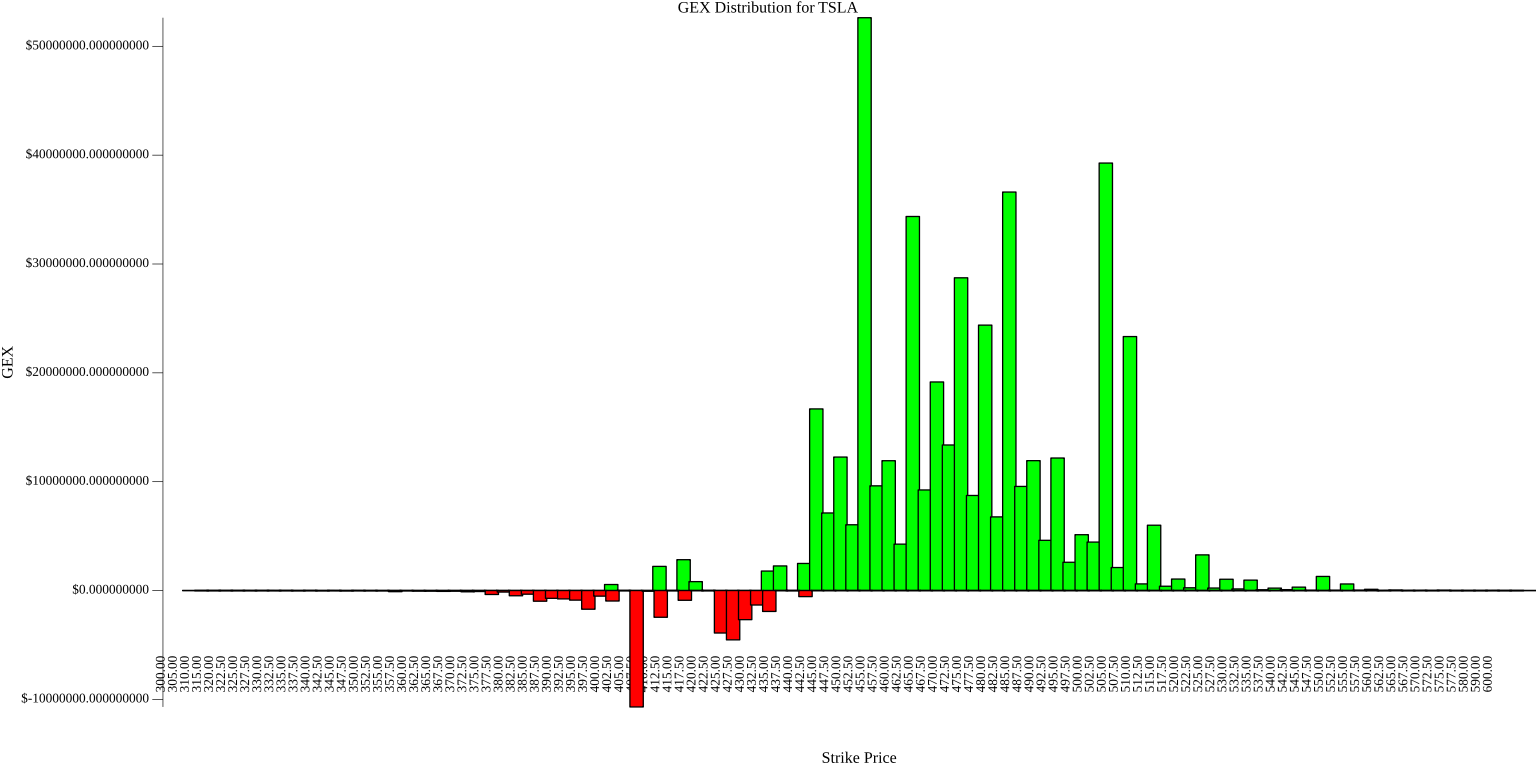
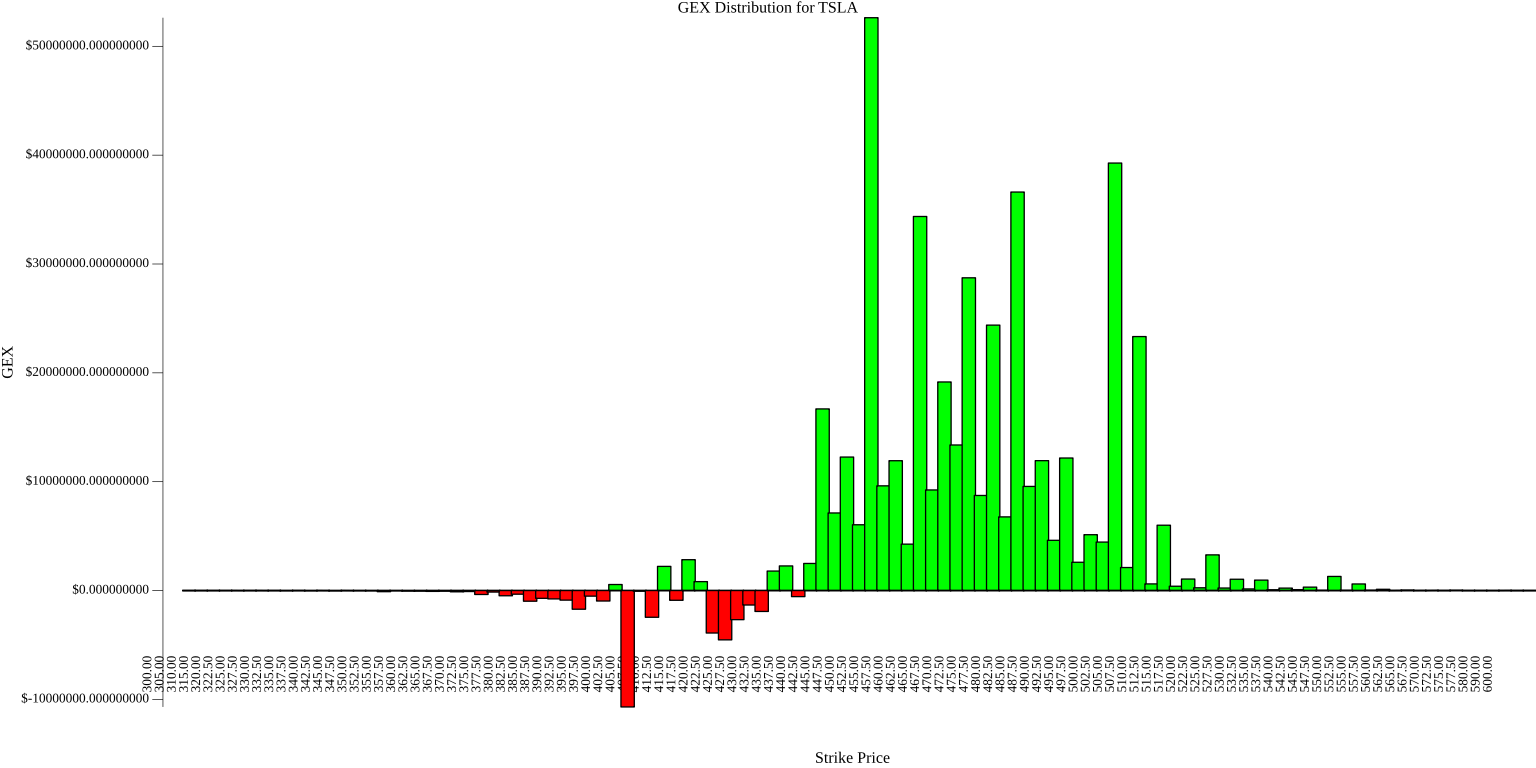
more changes in the way the graph is generated.

Changed region(s): [[0.0938, 0.0312, 0.9688, 0.9375], [0.5312, 0.9688, 0.5938, 1.0]]

diff --git a/templates/gex.html b/templates/gex.html
@@ -14,16 +14,20 @@
                 <div class="px-4 sm:px-6 lg:px-8">
                     <div class="sm:flex sm:items-center">
                         <div class="sm:flex-auto">
+                            {{ if not .ImagePath }}
                             <h1 class="text-4xl font-semibold leading-6 text-white">GEX Chart</h1>
+                            {{ end }}
                         </div>
                     </div>
                     <div class="mt-10">
                         {{ if not .ImagePath }}
                         <form hx-post="/gex" hx-target="#gex-chart" hx-swap="innerHTML">
-                            <div class="flex flex-row">
-                                <input type="text" name="symbol" id="symbol" class="block w-full rounded-md border-0 py-2 text-gray-900 shadow-sm ring-1 ring-inset ring-gray-300 placeholder:text-gray-400 rounded-r-none focus:ring-2 focus:ring-inset focus:ring-indigo-600 sm:text-md sm:leading-6" placeholder="Enter Symbol">
-                                <input type="date" name="expiration" id="expiration" class="block w-full rounded-md border-0 py-2 text-gray-900 shadow-sm ring-1 ring-inset ring-gray-300 placeholder:text-gray-400 rounded-r-none focus:ring-2 focus:ring-inset focus:ring-indigo-600 sm:text-md sm:leading-6">
-                                <button type="submit" class="block rounded-md rounded-l-none bg-blue-800 w-min text-nowrap px-4 py-2 text-center text-sm font-semibold text-white hover:bg-blue-400 focus-visible:outline focus-visible:outline-2 focus-visible:outline-offset-2 focus-visible:outline-indigo-500">Generate Chart</button>
+                            <div class="flex flex-col space-y-4 max-w-md mx-auto">
+                                <input type="text" name="symbol" id="symbol" class="block w-32 rounded-md border-0 py-2 text-gray-900 shadow-sm ring-1 ring-inset ring-gray-300 placeholder:text-gray-400 focus:ring-2 focus:ring-inset focus:ring-indigo-600 sm:text-md sm:leading-6" placeholder="Enter Symbol">
+                                <br/>
+                                <input type="date" name="expiration" id="expiration" class="block w-64 rounded-md border-0 py-2 text-gray-900 shadow-sm ring-1 ring-inset ring-gray-300 placeholder:text-gray-400 focus:ring-2 focus:ring-inset focus:ring-indigo-600 sm:text-md sm:leading-6">
+                                <br/>
+                                <button type="submit" class="block rounded-md bg-blue-800 w-auto px-4 py-2 text-center text-sm font-semibold text-white hover:bg-blue-400 focus-visible:outline focus-visible:outline-2 focus-visible:outline-offset-2 focus-visible:outline-indigo-500">Generate Chart</button>
                             </div>
                         </form>
                         {{ end }}

diff --git a/internal/handler/gex/gex_static.go b/internal/handler/gex/gex_static.go
@@ -222,12 +222,12 @@ func CreateGEXPlot(gexByStrike map[float64]float64, symbol string, path string) 
 		gex := gexByStrike[strike]
 		if gex >= 0 && gex > 100 {
 			//print labels and values
-			fmt.Printf("Strike: %.2f, GEX: %.2f\n", strike, gex)
+			fmt.Printf(" +ve Strike: %.2f, GEX: %.2f\n", strike, gex)
 			labels = append(labels, fmt.Sprintf("%.2f", strike))
 			posPoints = append(posPoints, gex)
 			negPoints = append(negPoints, 0)
 		} else if gex < -100 {
-			fmt.Printf("Strike: %.2f, GEX: %.2f\n", strike, gex)
+			fmt.Printf(" -ve Strike: %.2f, GEX: %.2f\n", strike, gex)
 			labels = append(labels, fmt.Sprintf("%.2f", strike))
 			posPoints = append(posPoints, 0)
 			negPoints = append(negPoints, gex)
@@ -240,7 +240,7 @@ func CreateGEXPlot(gexByStrike map[float64]float64, symbol string, path string) 
 		return err
 	}
 	posBar.Color = color.RGBA{G: 255, A: 255}
-	posBar.Offset = -vg.Points(5)
+	posBar.Offset = vg.Points(5)
 
 	// Create negative bars (red)
 	negBar, err := plotter.NewBarChart(negPoints, vg.Points(10))
@@ -250,14 +250,21 @@ func CreateGEXPlot(gexByStrike map[float64]float64, symbol string, path string) 
 	negBar.Color = color.RGBA{R: 255, A: 255}
 	negBar.Offset = vg.Points(5)
 
-	p.Add(posBar, negBar)
+	// Create labels for the bars
+	labelPoints := make(plotter.XYs, len(labels))
+	for i, _ := range labels {
+		labelPoints[i].X = float64(i)
+		labelPoints[i].Y = posPoints[i] + negPoints[i]
+	}
+	barLabels, err := plotter.NewLabels(plotter.XYLabels{
+		XYs:    labelPoints,
+		Labels: labels,
+	})
+	if err != nil {
+		return err
+	}
 
-	// Set X axis labels
-	p.NominalX(labels...)
-	p.X.Tick.Label.Rotation = 1.5708         // Rotate labels by 1 radian (~57 degrees)
-	p.X.Tick.Label.XAlign = 0.5              // Center labels
-	p.X.Tick.Label.YAlign = 2.0              // Align labels to the middle
-	p.X.Tick.Label.Font.Size = vg.Points(10) // Move labels closer to the x-axis
+	p.Add(posBar, negBar, barLabels)
 
 	// Custom y-axis ticker
 	p.Y.Tick.Marker = plot.TickerFunc(func(min, max float64) []plot.Tick {
